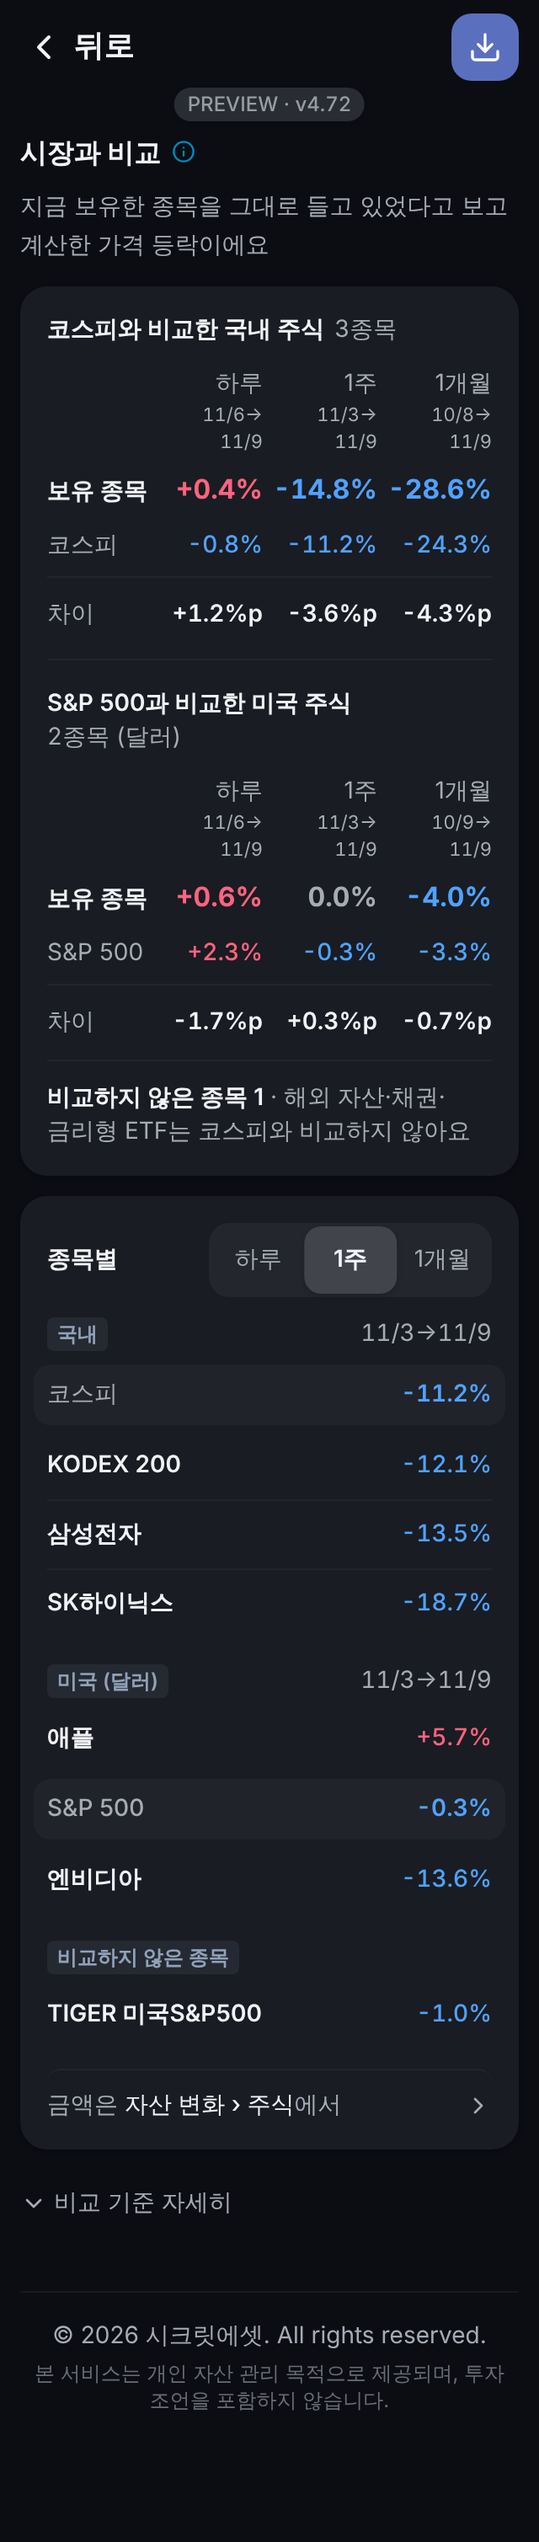
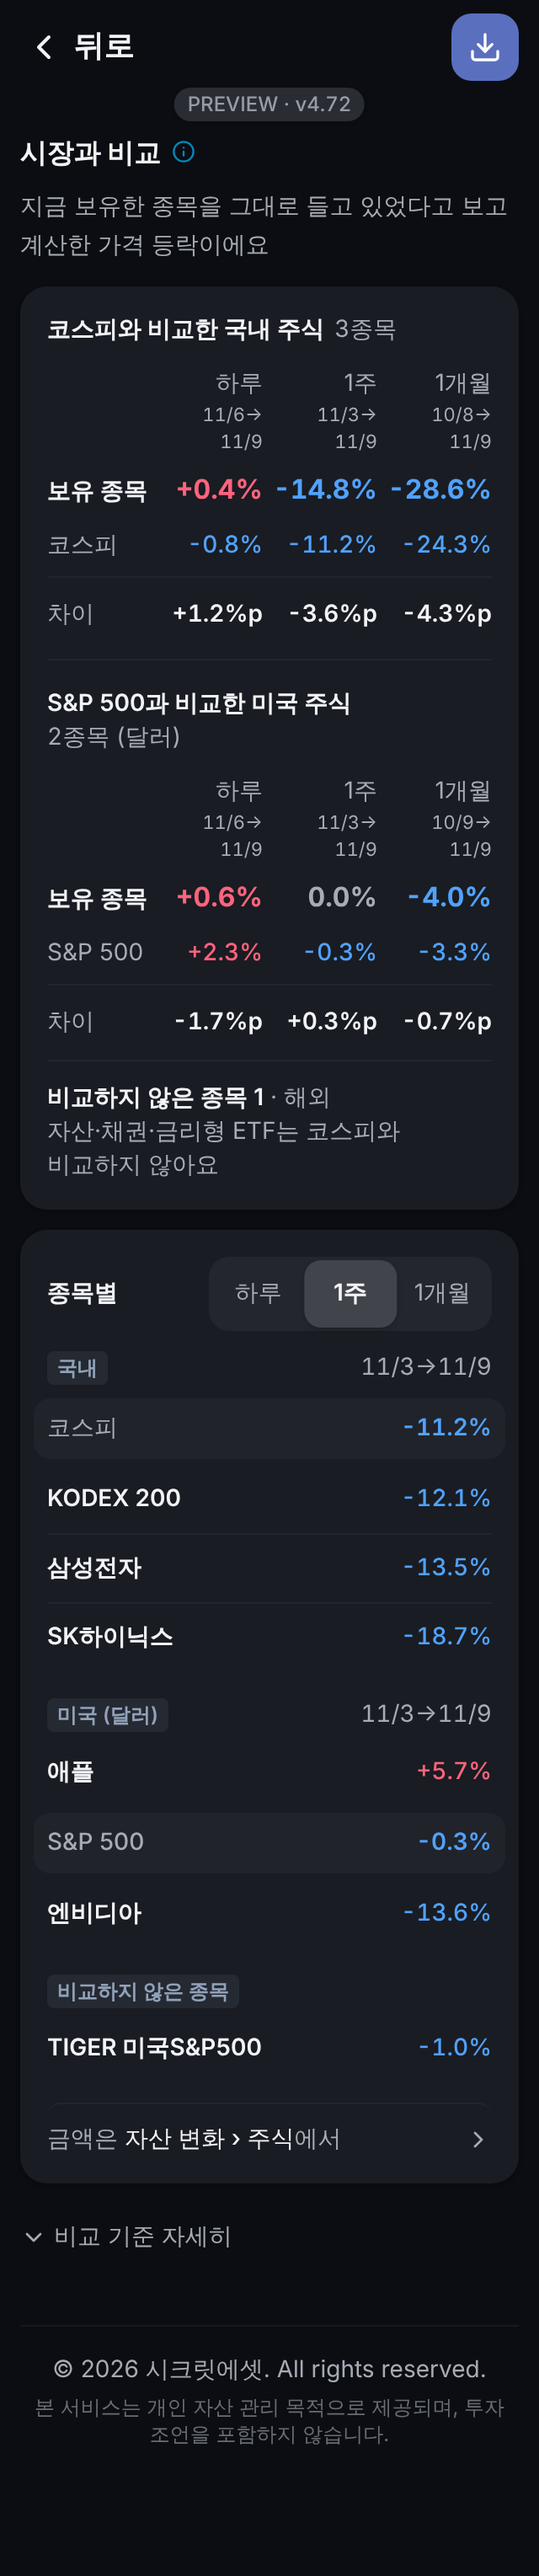
memory: 4.72 R1·R2 증분 qa PASS(a7cc51a)

diff --git a/issues/4.72-132-market-side-by-side/4.72-qa-report.md b/issues/4.72-132-market-side-by-side/4.72-qa-report.md
@@ -134,3 +134,25 @@
 1. 상세·주식에서 `내 종목과 비교`로 코스피·S&P 500 옆에 하루·1주·1개월 등락을 보고, 목록을 `등락률 순`으로 바꿀 수 있다.
 2. 확인 범위: 수용 기준 25건·픽스처 8종·CHECKLIST 전 항목·데이터 안전 3건·지수 라우트 보안·공개 종가 대조(추종 ETF 비율 대체)·320/375/1280 라이트·다크. 실패 1건 = 정렬 아이콘형 히트영역 가로 32px.
 3. 남은 한계: 공개 출처 직접 대조 불가(프록시) → 추종 ETF 비율 대조로 대체(머지 뒤 첫 장중일 운영 스모크에서 재대조), 앱 시작 2초 안 진입 시 칩 미표시(기존 main 동작, 별도 버그 권고).
+
+---
+
+## R1·R2 증분 (a7cc51a, 이전 qa b2b5d04 FAIL D1) — 판정: **PASS**
+검증일 2026-11-10. ls-remote = a7cc51a, Vercel(preview `PREVIEW · v4.72`) 200. diff b2b5d04..a7cc51a = `stock-tab.tsx`·`market-compare-view.tsx`·테스트 2·KB 3(소스 외 계산·저장·동기화·공유 토큰 diff 0 → 데이터 안전 점검 해당 없음). 캡처 `screenshots/qa-r1-*.png`·`qa-r2-notice-*.png`.
+
+| 항목 | 결과 | 실측 |
+|---|---|---|
+| 게이트 | PASS | vitest 119 files / 1,666 pass, tsc 0, lint 0 errors(경고 51), build 성공, 콘솔 앱 오류 0(`ERR_TUNNEL`은 샌드박스 프록시) |
+| D1 아이콘형 히트 40×40 | **해소** | 320×5칸 평가금 순 트리거 32×32, `::after` 히트 **40×40**. 375×7칸 동일 40×40. 375×6칸 라벨형 83.7×32(히트 83.7×40) |
+| 정렬 라벨 규칙 | PASS | 375×6칸 기본·선택 라벨 / 320×5칸 기본 아이콘·`등락률 순` 선택 시 라벨(83.3×40) / 375×7칸 기본 아이콘·선택 시 라벨. 선택 중 아이콘 표시 none |
+| 카테고리 줄 높이·넘침 | PASS | 전 경우 35.5 불변, 문서 가로 넘침 0. 7칸 등락률 순에서 마지막 `비상장` 선택 시 칸 221~272 < 트리거 280(겹침 0), 평가금 순 복귀 후 칸 243~294 < 트리거 331, scrollIntoView 동작 |
+| 안내 줄 2이유 C25 | PASS | 320: `비교하지 않은 종목 2` / `…ETF는 코스피와 ⏎ 비교하지 않아요` / `미국 밖 해외 종목은 S&P 500과 ⏎ 비교하지 않아요`(`·`로 시작하는 줄 0, `S&P 500` 분리 0, 줄바꿈은 어절 사이만, keep-all). 375: 첫 이유 2줄·둘째 1줄. 가로 넘침 0. 이유 1개는 vitest로 ` · ` 한 줄 유지 |
+| 금지어 테스트 | PASS | `text()`가 U+2060 제거·U+00A0 공백화 뒤 비교(diff 확인), 금지어 28개 단언 유지, 보이지 않는 문자로 우회 불가 |
+| `기준가 조회 중…` 1회 | PASS(코드) | 페이지 카드에 1회, 블록은 `loadingNote={false}` |
+| A1~A25 회귀 | PASS | 변경 영향 범위는 A10(문구)·A20(정렬 컨트롤) 두 곳. A10: 새 문구 금지어·금액 0, 줄바꿈 C25 충족. A20: 줄 수 +0, 히트 40, 키보드·메뉴 항목 min-h-10 유지. 나머지 A1~A9·A11~A19·A21~A25는 계산·API·저장 diff 0 + vitest 1,666 전부 통과로 b2b5d04 판정 유지 |
+| 왕복 뒤로가기 정렬 유지 | PASS | 상세·주식 `등락률 순` → `내 종목과 비교` → 뒤로 = `#detail/stocks`, 트리거 `등락률 순` 유지 |
+| CHECKLIST | PASS | 이번 증분은 UI·문구·테스트·KB뿐. C25(문구 전수)·히트 40 충족, 나머지 b2b5d04 판정과 동일 |
+
+한계: Linux Chromium만, 6·7칸·2이유는 localStorage 주입 상태(실제 IRP·비상장 보유 기기 아님). `ERR_TUNNEL` 외 새 오류 없음.
+
+대표 요약: 1) 상세·주식 정렬 버튼이 좁은 화면에서 아이콘으로 줄어도 누르는 영역이 40×40이고 `등락률 순` 선택 중엔 글자로 표시된다. 2) 320·375×5~7칸과 안내 줄 2이유를 실측했고 줄 높이·가로 넘침·어절 줄바꿈 문제 0. 3) 남은 한계: 실기기 글꼴 폭 미검증, 기존 main 동작인 앱 시작 2초 내 칩 미표시는 별도 버그 권고.
